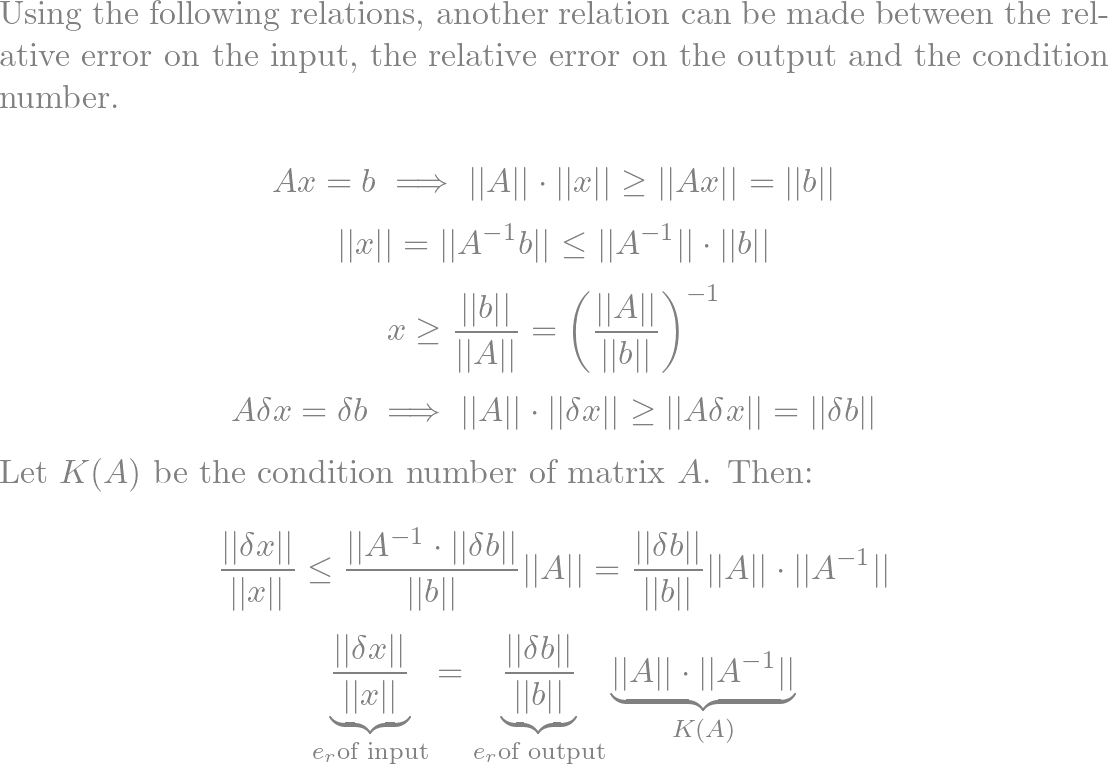
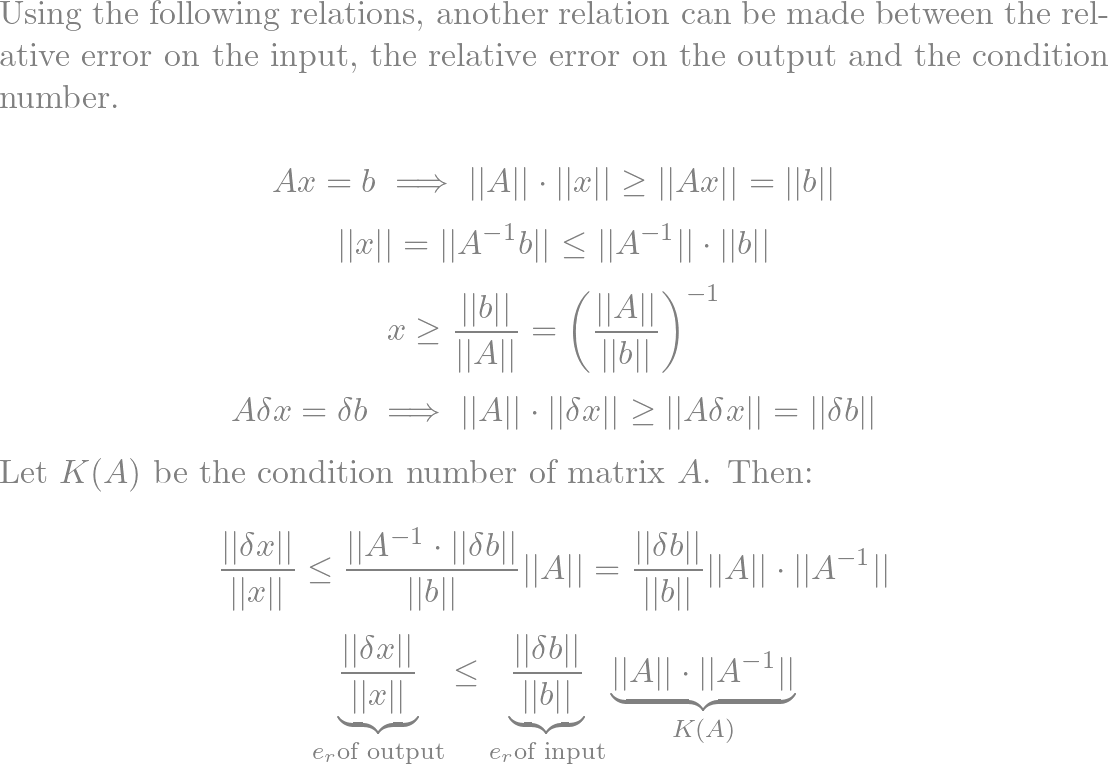
modifications

diff --git a/src/k.tex b/src/k.tex
@@ -7,4 +7,4 @@ $$x\geq \frac{||b||}{||A||}=\left({\frac{||A||}{||b||}\right)^{-1}$$
 $$A\delta x = \delta b \implies ||A||\cdot||\delta x|| \geq ||A\delta x|| = ||\delta b||$$
 Let $K(A)$ be the condition number of matrix $A$. Then:\\
 $$\frac{||\delta x||}{||x||} \leq \frac{||A^{-1}\cdot||\delta b||}{||b||}||A||=\frac{||\delta b||}{||b||}||A||\cdot||A^{-1}||$$
-$$\underbrace{\frac{||\delta x||}{||x||}}_{e_r \text{of input}}=\underbrace{\frac{||\delta b||}{||b||}}_{e_r \text{of output}}\underbrace{||A||\cdot||A^{-1}||}_{K(A)}$$
+$$\underbrace{\frac{||\delta x||}{||x||}}_{e_r \text{of output}}\leq\underbrace{\frac{||\delta b||}{||b||}}_{e_r \text{of input}}\underbrace{||A||\cdot||A^{-1}||}_{K(A)}$$
